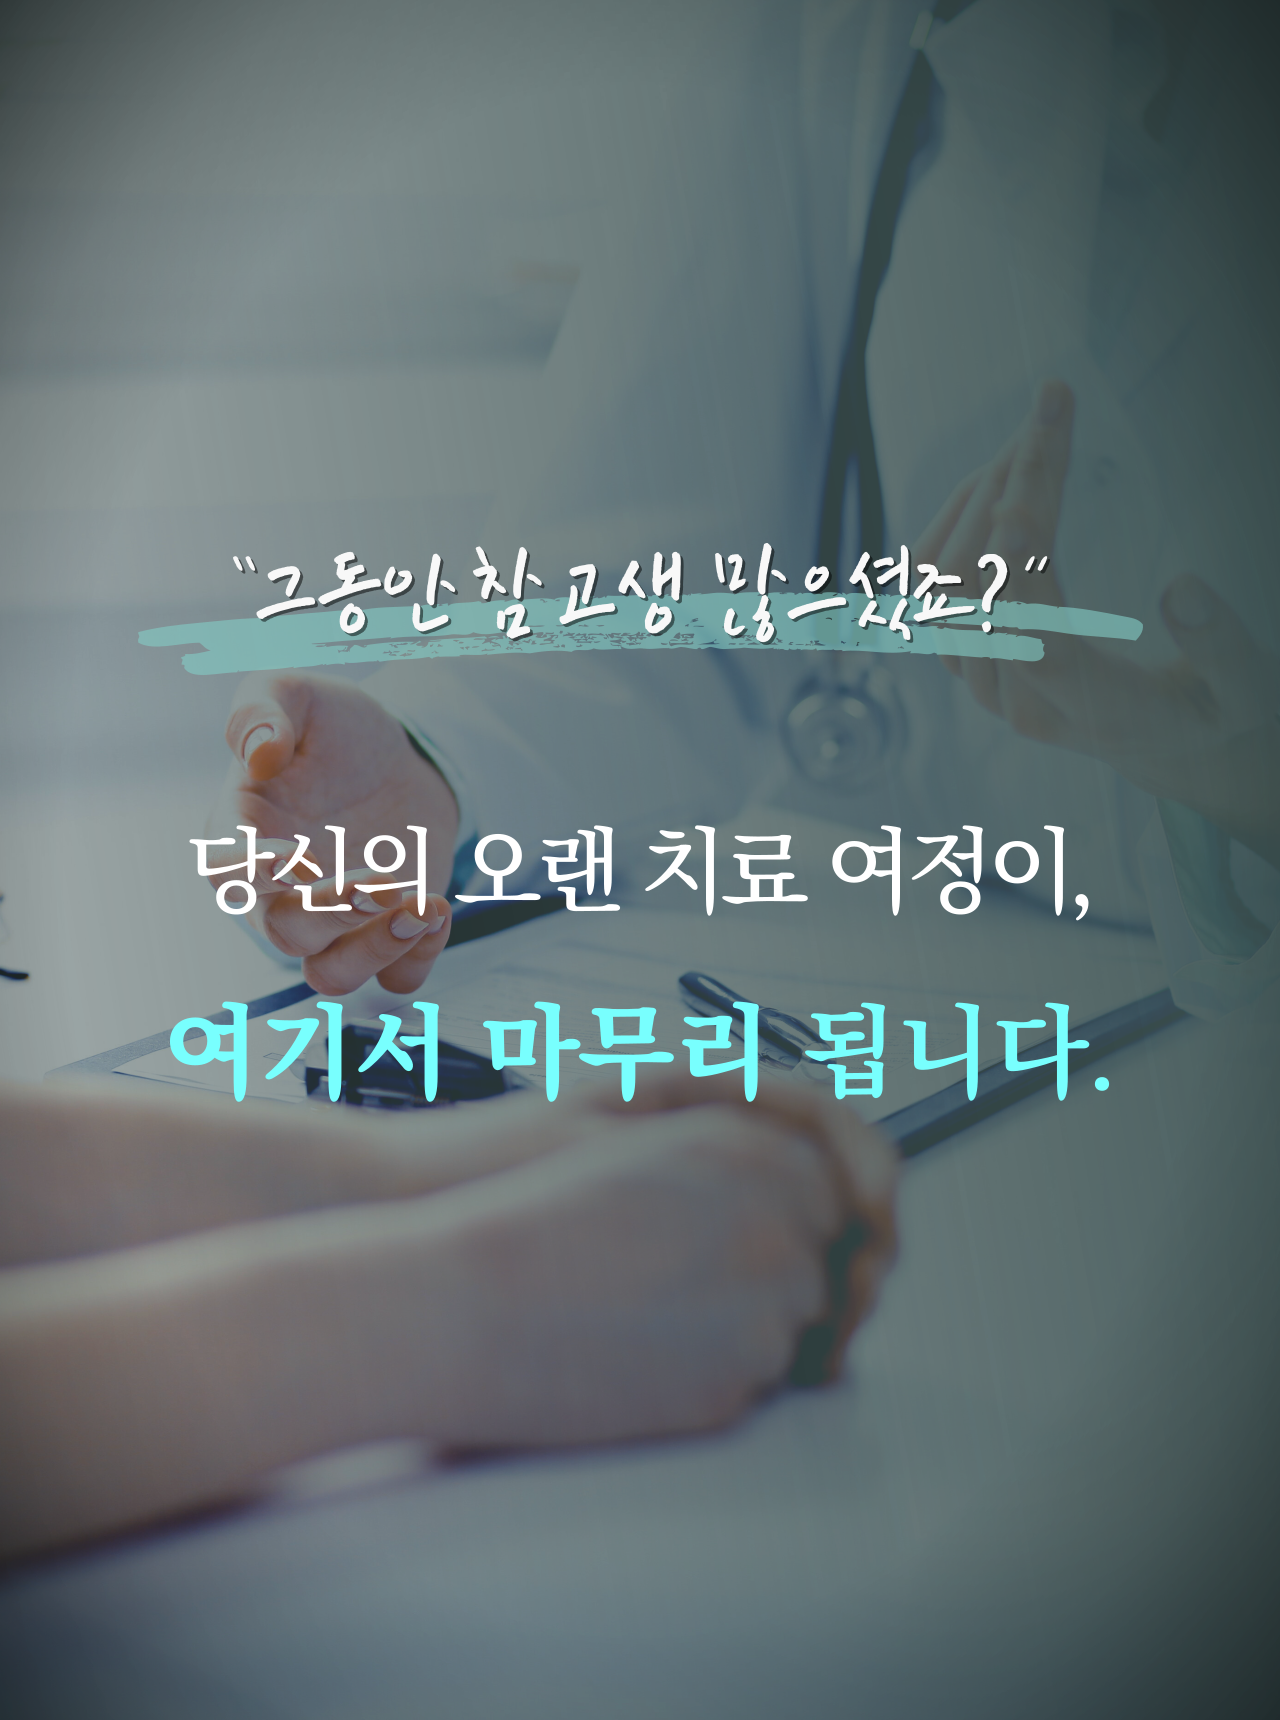
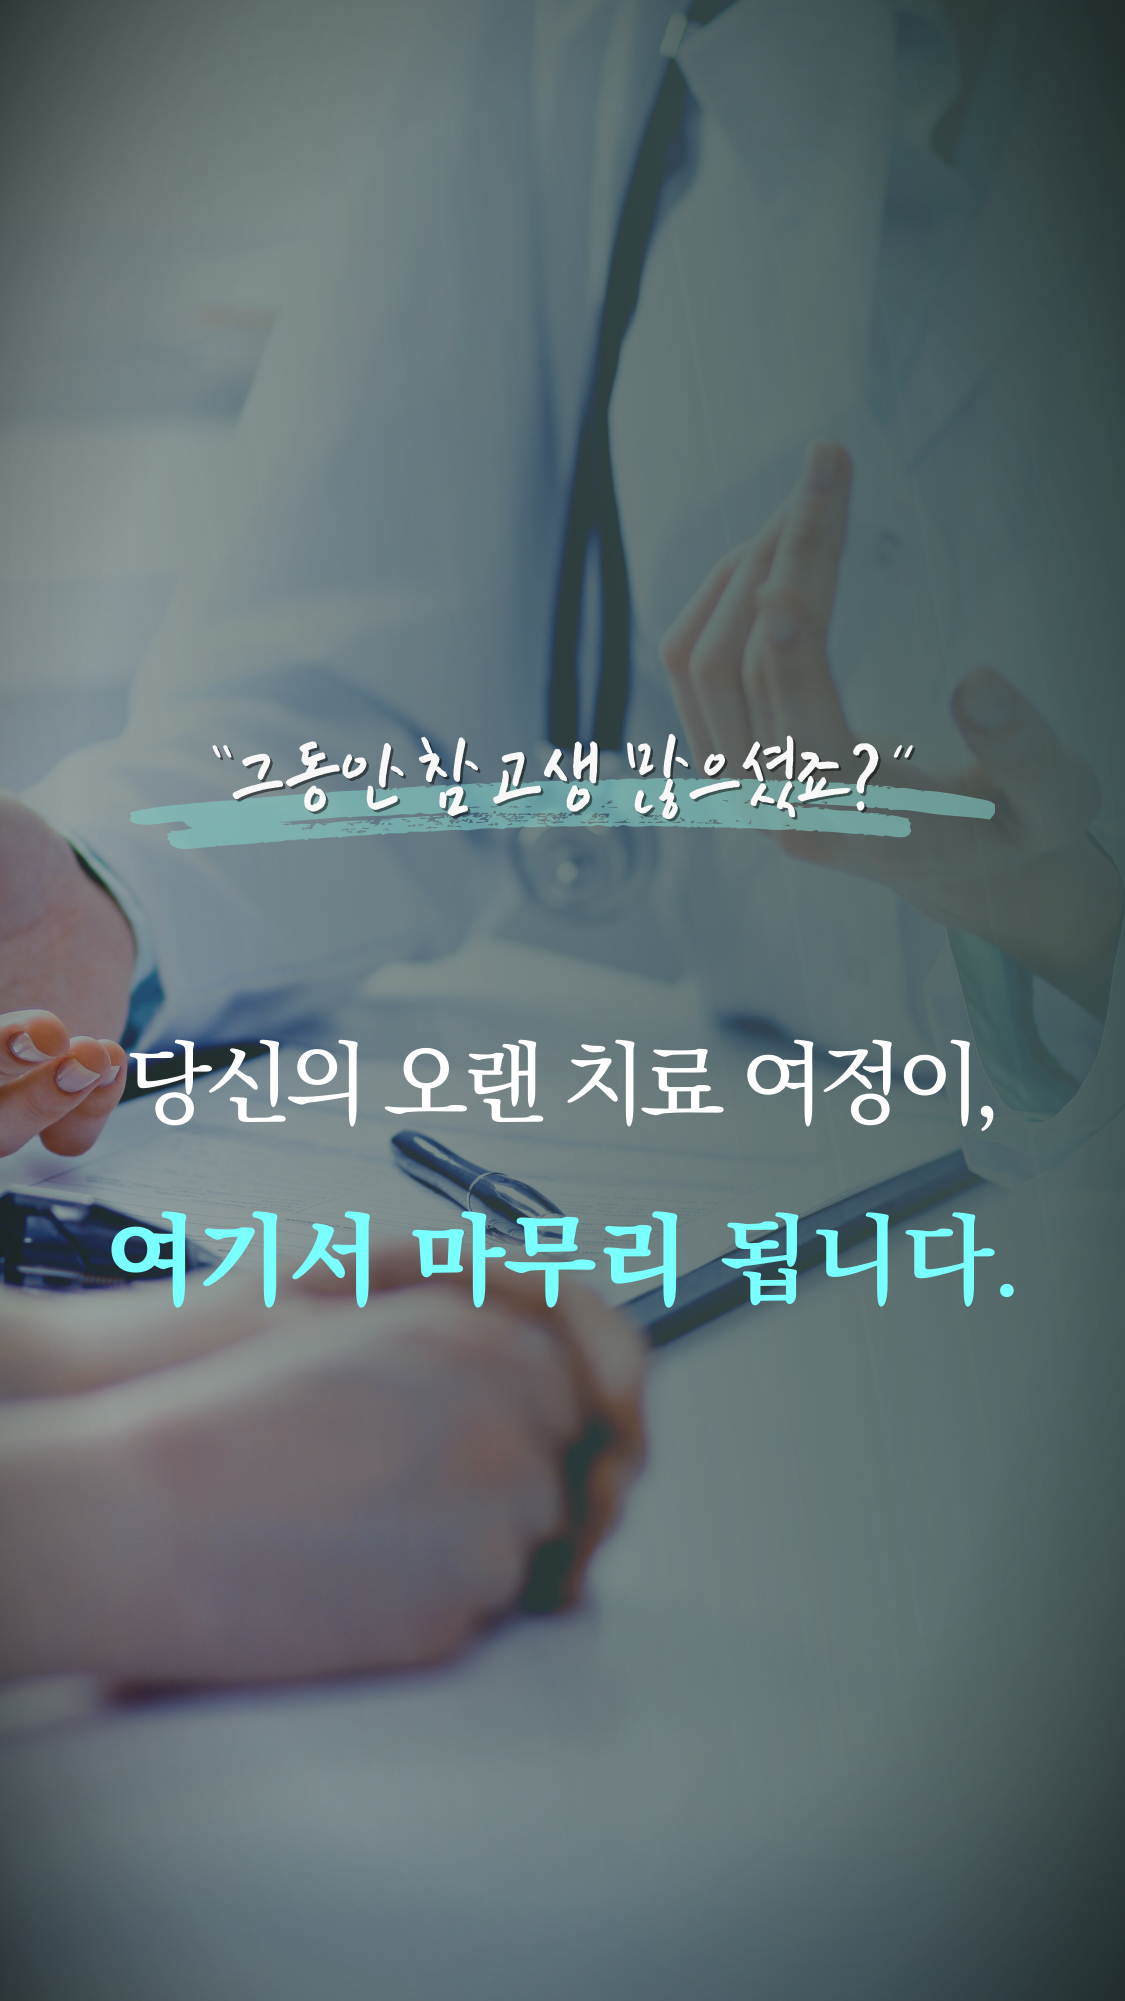
feat: 모바일 캐러샐 비율 조정

Changed region(s): [[0.0, 0.0, 0.9333, 0.8628], [0.0, 0.832, 0.2489, 0.9244]]

diff --git a/index.html b/index.html
@@ -861,7 +861,7 @@
                                 <!-- 지역선택 디자인 수정 21-06-30 -->
                                 <div class="sel-dsg-wrap">
                                 <!-- .open시 화살표 배경바뀌고, network에 display:block-->
-                                <!--<div class="sel-dsg-wrap open">-->
+<!--                                <div class="sel-dsg-wrap open">-->
 
                                     <button type="button" class="selb">
                                         잠실

diff --git a/css/index.css b/css/index.css
@@ -1565,7 +1565,7 @@ a {
 /* 전체 box 280 */
 .booking-service-new {
     position: absolute;
-    width: 25%;
+    width: 20%;
     right: 5%;
     height: 280px;
     /*margin-left: 215px;*/
@@ -1729,8 +1729,11 @@ a {
 
 .sel-network {
     position: absolute;
-    right: 0;
     top: 50px;
+    right: 0;
+    /*left: 0;*/
+    /*bottom: 50px;*/
+
     width: 283px;
     background: #fff;
     border-radius: 6px;
